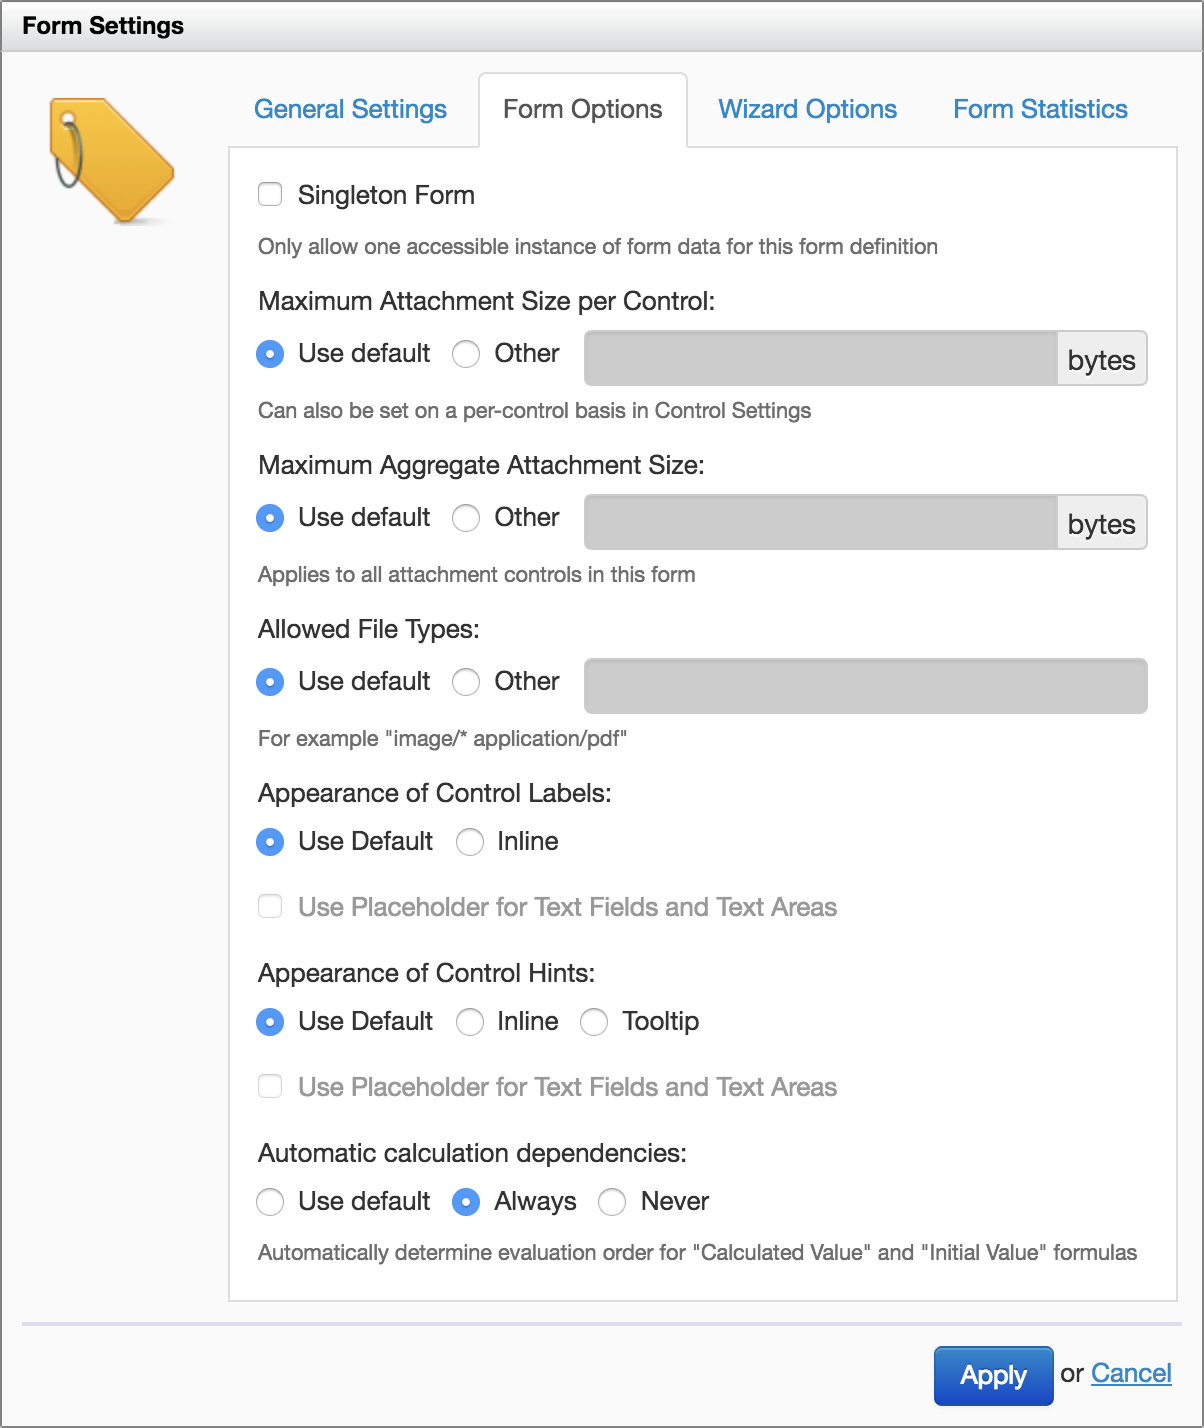
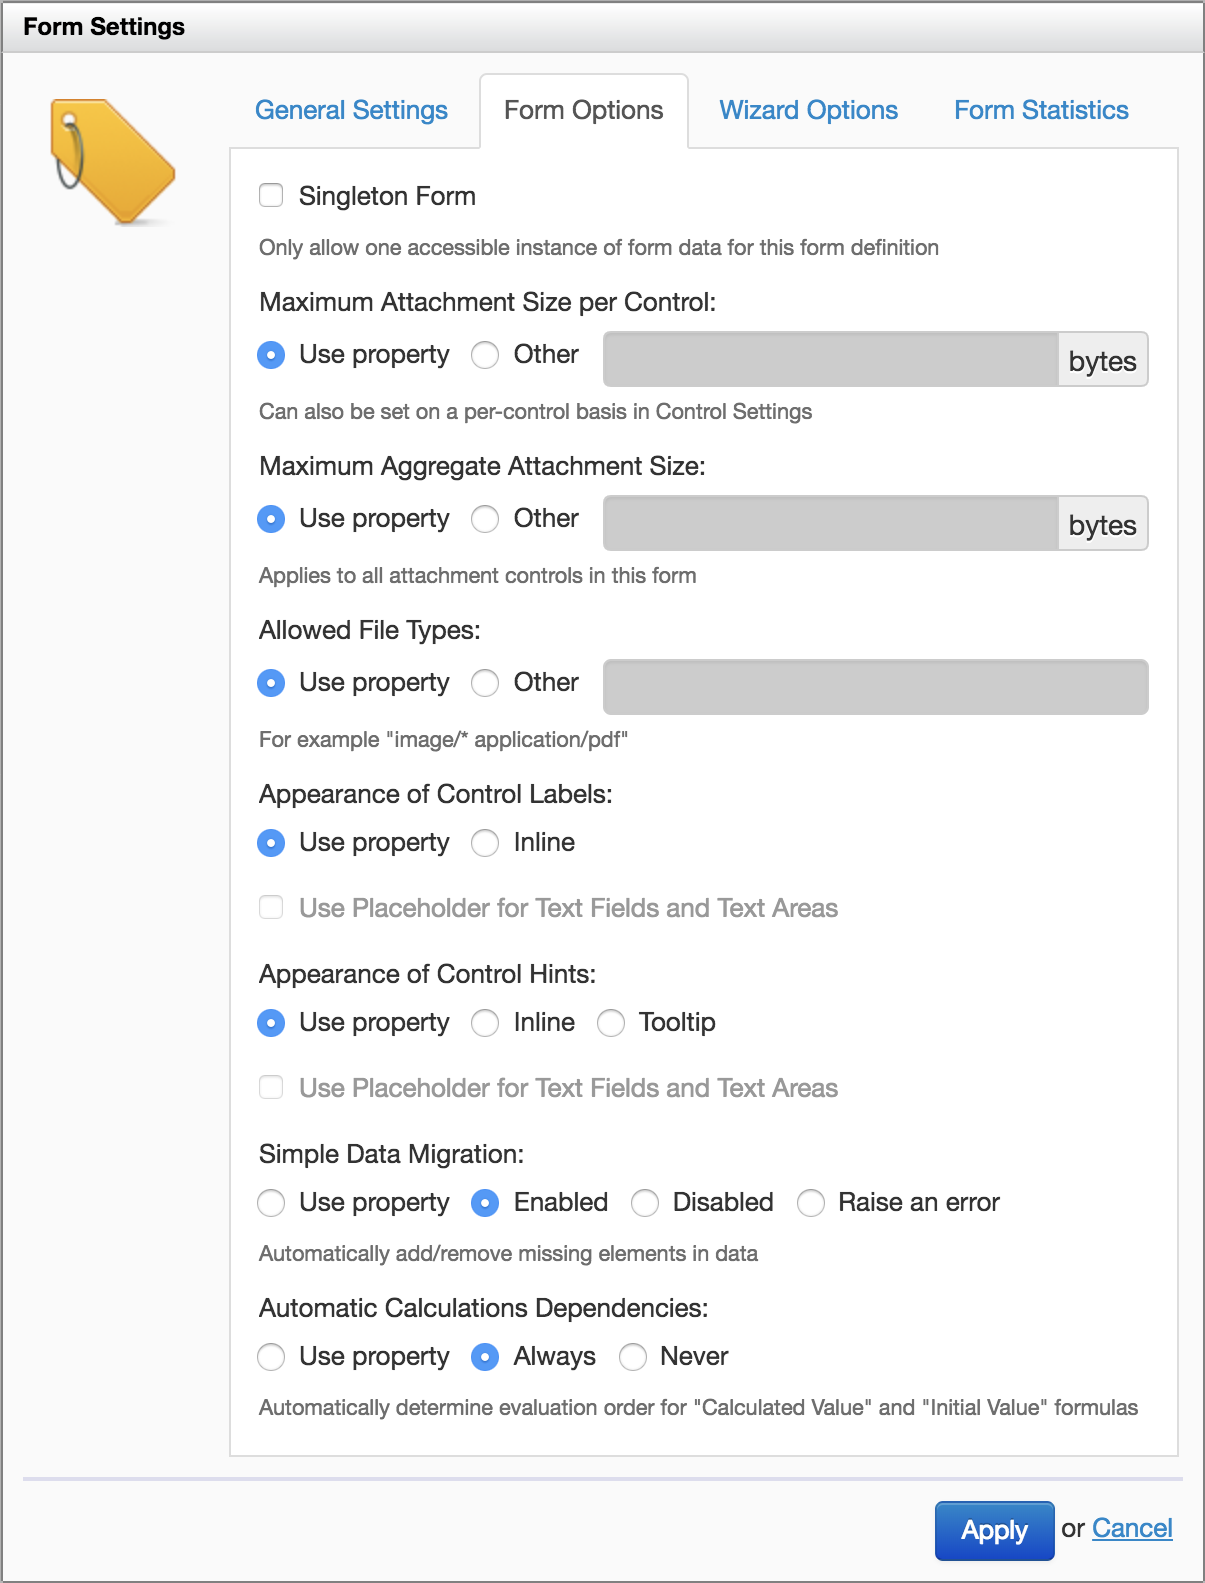
Simple data migration, page about versioning

diff --git a/form-runner/feature/versioning.md b/form-runner/feature/versioning.md
@@ -1,0 +1,92 @@
+# Versioning
+
+## Availability
+
+This feature is available since Orbeon Forms 4.5. It is available with all supported relational databases but not the eXist database.
+
+## Without form definition versioning
+
+Without form definition versioning, Orbeon Forms only keeps track of a single [published](/form-builder/publishing.md) form definition for a given application name/form name (see [terminology](/form-runner/overview/terminology.md#application-name-and-form-name)). This means that if you republish a form, the previously-published form definition gets overwritten (although there is an [auditing trail](/form-runner/api/persistence/versioning.md#auditing-trail)).
+
+This also means that when opening existing data for editing or viewing, Orbeon Forms always uses the latest published version of the form definition. This can lead to unexpected results, as fields might have been added, removed, or renamed in the new form definition. In fact, the form definition could be completely different from the form definition used to create and save the data currently stored in the database!
+
+## With form definition versioning
+
+Form definition versioning introduces the idea that published form definitions for a given application name/form name also have a version number. When creating a *new* version upon publishing, the version number is "1", and when publishing again with a new version the number increases: "2", "3", etc. So you can talk about "version 2 of the Acme Order form".
+
+<img alt="Creating a new version" src="../../form-builder/images/publish-version-next.png" width="501">
+
+When saving form data, the data in the database is associated not only with the application name and form name, but also with the *version* of the form definition that was used to create or edit that data. So when you open that data for editing or viewing at a later time, Form Runner can use the matching version of the form definition.
+
+When publishing, if versioning is supported by the persistence layer, you have a choice to *create a new form version* or to *override an existing one*. This is detailed in [Publishing](/form-builder/publishing.md).
+
+## Compatibility of changes
+
+There are different types of changes you can make to a form definition which impact whether *existing data* in the database will be compatible with those changes.
+
+*NOTE: If there is not yet any data created by that given form definition version in the database, then compatibility is not a problem.*
+
+Examples of compatible changes:
+
+- updating labels, hints, help messages, and explanatory texts
+- adding items to selection controls
+- changing the initial value of a control, either directly with the control or via an *Initial Value* formula  
+- adding a language
+- updating permissions
+- updating email settings
+
+Examples of incompatible changes:
+
+- adding a control, grid, or section
+- removing a control, grid, or section
+- renaming a control, grid, or section
+- changing the nesting of grids or section within subsections
+
+## Simple data migration
+
+### Rationale
+
+[SINCE Orbeon Forms 2018.2]
+
+Simple data migration is an option which sits between "overwrite an existing form definition in an incompatible way" and "create a whole new form definition version". When enabled, simple data migration allows you to overwrite a form definition, but keep certain changes compatible, namely, the updated form definition can:
+
+- add and remove controls
+- add and remove grids and sections
+
+When you load existing data with the updated form definition, the following happens:
+
+- If the data is *missing* placeholders for data associated with new controls, grids or sections, those are automatically added.
+- If the data has *extra* placeholders for data associated with removed controls, grids or sections, those are automatically removed. 
+
+### Configuration
+
+This option is disabled by default. You can enable it in the Form Settings's Form Options tab:
+
+- __Use property:__ Use the value set by the `oxf.fr.detail.data-migration` property.
+- __Enabled:__ Perform simple data migration when loading and receiving data.
+- __Disabled:__ Do not perform simple data migration when loading and receiving data.
+- __Raise an error:__ If the data is incompatible upon load, raise an error. The user will not be able to access the data.
+
+The `oxf.fr.detail.data-migration` is set as follows by default:
+
+```xml
+<property
+    as="xs:string"
+    name="oxf.fr.detail.data-migration.*.*"
+    value="disabled"/>
+```  
+
+![Form Options](../../form-builder/images/form-settings-options.png)
+
+## See also
+
+- [Application name and form name](/form-runner/overview/terminology.md#application-name-and-form-name)
+- [Publishing](/form-builder/publishing.md)
+    - [Overwriting of existing version](/form-builder/publishing.md#versioning)
+    - [Versioning comments](/form-builder/publishing.md#versioning-comments)
+- Blog posts:
+    - [Form versioning](https://blog.orbeon.com/2014/02/form-versioning.html)
+    - [Choosing the best versioning option when publishing a form](https://blog.orbeon.com/2015/01/choosing-best-versioning-option-when.html)
+    - [Versioning comments](https://blog.orbeon.com/2016/09/versioning-comments.html)
+- [Persistence API and versioning](/form-runner/api/persistence/versioning.md)
+- [Form Settings](/form-builder/form-settings.md)

diff --git a/form-builder/publishing.md b/form-builder/publishing.md
@@ -4,11 +4,11 @@
 
 The notion of _publishing_ is central to Form Builder/Form Runner.
 
-* As a form author, you first work on a form definition in a special space where the form can be modified, saved, and tested.
-* Once the form definition is ready, you _publish it_ to Form Runner.
-* After that moment:
-    * the form becomes available by form users for data entry
-    * Form Builder is no longer part of the equation
+- As a form author, you first work on a form definition in a special space where the form can be modified, saved, and tested.
+- Once the form definition is ready, you _publish it_ to Form Runner.
+- After that moment:
+    - the form becomes available by form users for data entry
+    - Form Builder is no longer part of the equation
 
 ## First publish
 
@@ -16,19 +16,28 @@ When you start publishing a form with the Publish button at the bottom of Form B
 
 <img alt="Creating a new version" src="images/publish-initial-no-versioning.png" width="502">
 
-[SINCE Orbeon Forms 2017.2] You can decide whether the published form is available to end users. You can later change the availability of the published form either in Form Builder by re-publishing it, or from the [Form Runner runner home page](../form-runner/feature/home-page.md#controlling-form-definitions-availability).   
-
 If you decide to go ahead with publishing, simply use the Publish button.
+
+[SINCE Orbeon Forms 2017.2]
+
+You can decide whether the published form is *available* to end users. You can later change the availability of the published form either in Form Builder by re-publishing it, or from the [Form Runner runner Home page](/form-runner/feature/home-page.md#controlling-form-definitions-availability).   
 
 ## Versioning
 
-### New version or override 
+### New version or overwrite
 
-When versioning is enabled, you have a choice, when publishing, of whether to create a new form version or to override an existing one.
+When versioning is enabled, you have a choice, when publishing, of whether to *create a new form version* or to *overwrite an existing one*.
 
 <img alt="Creating a new version" src="images/publish-version-next.png" width="501">
 
+When creating a new form version, publishing the form definition creates a new version of the form definition in the database. Data which already exists in the database will still be viewed and edited with the previous versions of this form definition which are associated with that data. The new form definition version will be used to create, edit and view new data.
+
 <img alt="Overwriting an existing version" src="images/publish-version-overwrite.png" width="503">
+
+When overwriting an existing form definition, if the changes you have made to the form definition are small and non-structural, such as changing control labels only, the form definition will be compatible with existing form data. But if you have made structural changes, such as adding, removing, renaming, or moving controls, the form definition might be incompatible with existing data. We recommend being
+careful when overwriting an existing form definition version.
+
+See also [versioning](/form-runner/feature/versioning.md) for details about the implications of these options.
 
 [SINCE Orbeon Forms 2016.1]
 
@@ -48,12 +57,15 @@ You can set an explanatory comment:
  
 <img alt="Empty comment" src="images/publish-comment-2.png" width="502">
 
-When overriding an existing form version, the existing comment, if any, is read back from the published form definition and you can update it before publishing:
+When overwriting an existing form version, the existing comment, if any, is read back from the published form definition and you can update it before publishing:
 
 <img alt="Empty comment" src="images/publish-comment-5.png" width="502">
 
 ## See also
 
-- [Form versioning](https://blog.orbeon.com/2014/02/form-versioning.html) blog post
-- [Choosing the best versioning option when publishing a form](https://blog.orbeon.com/2015/01/choosing-best-versioning-option-when.html) blog post
-- [Versioning comments](https://blog.orbeon.com/2016/09/versioning-comments.html) blog post
+- [Application name and form name](/form-runner/overview/terminology.md#application-name-and-form-name)
+- [Versioning](/form-runner/feature/versioning.md)
+- Blog posts:
+    - [Form versioning](https://blog.orbeon.com/2014/02/form-versioning.html)
+    - [Choosing the best versioning option when publishing a form](https://blog.orbeon.com/2015/01/choosing-best-versioning-option-when.html)
+    - [Versioning comments](https://blog.orbeon.com/2016/09/versioning-comments.html)

diff --git a/form-runner/api/persistence/versioning.md b/form-runner/api/persistence/versioning.md
@@ -2,11 +2,13 @@
 
 ## Form definition versioning support
 
-Since Orbeon Forms 4.5, Form Runner and Form Builder support versioning of _form definitions_ ([blog post](https://blog.orbeon.com/2014/02/form-versioning.html)).
+Since Orbeon Forms 4.5, Form Runner and Form Builder support versioning of _form definitions_.
 
-## Previous support
+For details, see [Versioning](/form-runner/feature/versioning.md).
 
-In addition (even prior to Orbeon Forms 4.5), when retrieving `form.xhtml`, Form Runner passes a URL parameter when possible:
+## Legacy support
+
+Even prior to Orbeon Forms 4.5, when retrieving `form.xhtml`, Form Runner passes a URL parameter:
 
 ```
 .../form.xhtml?document=6E6FC50F4BB945235EB5B573F2C7E695
@@ -14,22 +16,23 @@ In addition (even prior to Orbeon Forms 4.5), when retrieving `form.xhtml`, Form
 
 This parameter is passed when:
 
-* editing form data
-* viewing form data
-* producing a PDF
+- editing form data
+- viewing form data
+- producing a PDF
 
 This parameter is NOT passed when no document information is available, e.g. when:
 
-* creating new form data
-* listing form data on the summary page
+- creating new form data
+- listing form data on the summary page
 
 The value of the parameter is the id of the form data (document) being edited. This allows the persistence layer to retrieve the form definition associated with that document, in case the persistence layer handles versioning itself.
 
 ## Auditing trail
 
-In addition to explicit versioning of form definitions, the relational database implementations support an [auditing trail](../../persistence/auditing.md), keeping older versions of form definitions and form data. However this is not visible at the level of the REST API.
+In addition to explicit versioning of form definitions, the relational database implementations support an [auditing trail](/form-runner/persistence/auditing.md), keeping older versions of form definitions and form data. However this is not visible at the level of the REST API.
 
 ## See also 
 
+- [Versioning](/form-runner/feature/versioning.md)
+- [Auditing](/form-runner/persistence/auditing.md)
 - Blog post: [Form versioning](https://blog.orbeon.com/2014/02/form-versioning.html)
-- [Auditing](../../persistence/auditing.md)

diff --git a/form-builder/form-settings.md b/form-builder/form-settings.md
@@ -53,6 +53,9 @@ Form options include options which apply to the entire form definition.
     - Hints show inline or as tooltips upon mouseover.
     - For text, date, and time input fields, hints show as an HTML *placeholder* within the field when the field is empty.
     - For text areas, hints show as an HTML *placeholder* within the field when the field is empty. [SINCE Orbeon Forms 2017.1]
+- Simple Data Migration
+    - [SINCE Orbeon Forms 2018.2]
+    - For details, see [Simple data migration](/form-runner/feature/versioning.md#simple-data-migration).
 - Automatic Calculations Dependencies
     - [SINCE Orbeon Forms 2018.1]
     - For details, see [Automatic calculations dependencies](../form-runner/feature/automatic-calculations-dependencies.md). 
@@ -94,4 +97,6 @@ Form statistics show various counts of form elements.
 ## See also
 
 - [Wizard View](../form-runner/feature/wizard-view.md)
+- [Simple data migration](/form-runner/feature/versioning.md#simple-data-migration)
+- [Automatic calculations dependencies](../form-runner/feature/automatic-calculations-dependencies.md)
 - Blog post: [Improved constraints on attachments uploads](https://blog.orbeon.com/2017/04/improved-constraints-on-attachments.html)

diff --git a/features.md b/features.md
@@ -30,7 +30,7 @@ As of 2016-04-19 this page is still being updated.
     - main feature: [doc](form-builder/section-templates.md)
     - merging: [doc](form-builder/section-templates.md#merging-section-templates)
 - Singleton forms: [doc](form-runner/advanced/singleton-form.md)
-- Versioning of form definitions: [blog post about concept](https://blog.orbeon.com/2014/02/form-versioning.html), [blog post about publish options](https://blog.orbeon.com/2015/01/choosing-best-versioning-option-when.html)
+- Versioning of form definitions: [doc](/form-runner/feature/versioning.md), [blog post about concept](https://blog.orbeon.com/2014/02/form-versioning.html), [blog post about publish options](https://blog.orbeon.com/2015/01/choosing-best-versioning-option-when.html)
     - overwriting of existing version: [doc](form-builder/publishing.md#versioning)
     - associating a comment with a given form version: [doc](form-builder/publishing.md#versioning), [blog post](https://blog.orbeon.com/2016/09/versioning-comments.html)
 - Form field validation: [doc](form-builder/validation.md), [blog post](https://blog.orbeon.com/2013/07/enhanced-validation-in-form-builder-and.html)

diff --git a/form-runner/advanced/singleton-form.md b/form-runner/advanced/singleton-form.md
@@ -29,3 +29,7 @@ When accessing the *summary* page for a singleton form, the *New* button won't s
 The simplest use case, described above, calls for having at most 1 form data per user, However, since the *singleton* aspect is driven by what users can see, you can use permissions to control whether you want to have one form per user, per group, per users having a given role, or even in the whole system.
 
 This also means that it might still be possible for certain users to see multiple forms, hence the third case above (*2 or more* form data), e.g. if you setup permissions so regular users can only see their own data, hence they will be able to create at most 1 form data, but someone with the `admin` role can view all the data.
+
+## See also
+
+- [Form Settings](/form-builder/form-settings.md)

diff --git a/configuration/properties/form-runner-detail-page.md b/configuration/properties/form-runner-detail-page.md
@@ -129,7 +129,7 @@ By default, as shown in the below video:
  
 By default, with Form Runner, control labels appear *inline* above the control. The following property allows overriding this behavior:
  
- ```xml
+```xml
 <property
     as="xs:string"
     name="oxf.xforms.label.appearance.*.*"
@@ -153,7 +153,7 @@ For more about placeholders, see [Use HTML5 placeholders, in XForms](https://blo
  
 By default, with Form Runner, control hints appear *inline* under the control. The following property allows overriding this behavior:
  
- ```xml
+```xml
 <property
     as="xs:string"
     name="oxf.xforms.hint.appearance.*.*"

diff --git a/configuration/properties/form-runner.md b/configuration/properties/form-runner.md
@@ -29,6 +29,8 @@ For the latest default values of Form Runner properties, see [properties-form-ru
 * [Autosave](../../form-runner/persistence/autosave.md)
     * `oxf.fr.detail.autosave-delay`
     * `oxf.fr.persistence.*.autosave`
+* [Simple data migration](/form-runner/feature/versioning.md#simple-data-migration)
+    * `oxf.fr.detail.data-migration`
 * [Configuration Properties ~ Persistence](persistence.md)
     * `oxf.fr.persistence.provider`
     * `oxf.fr.persistence.[provider].uri`
